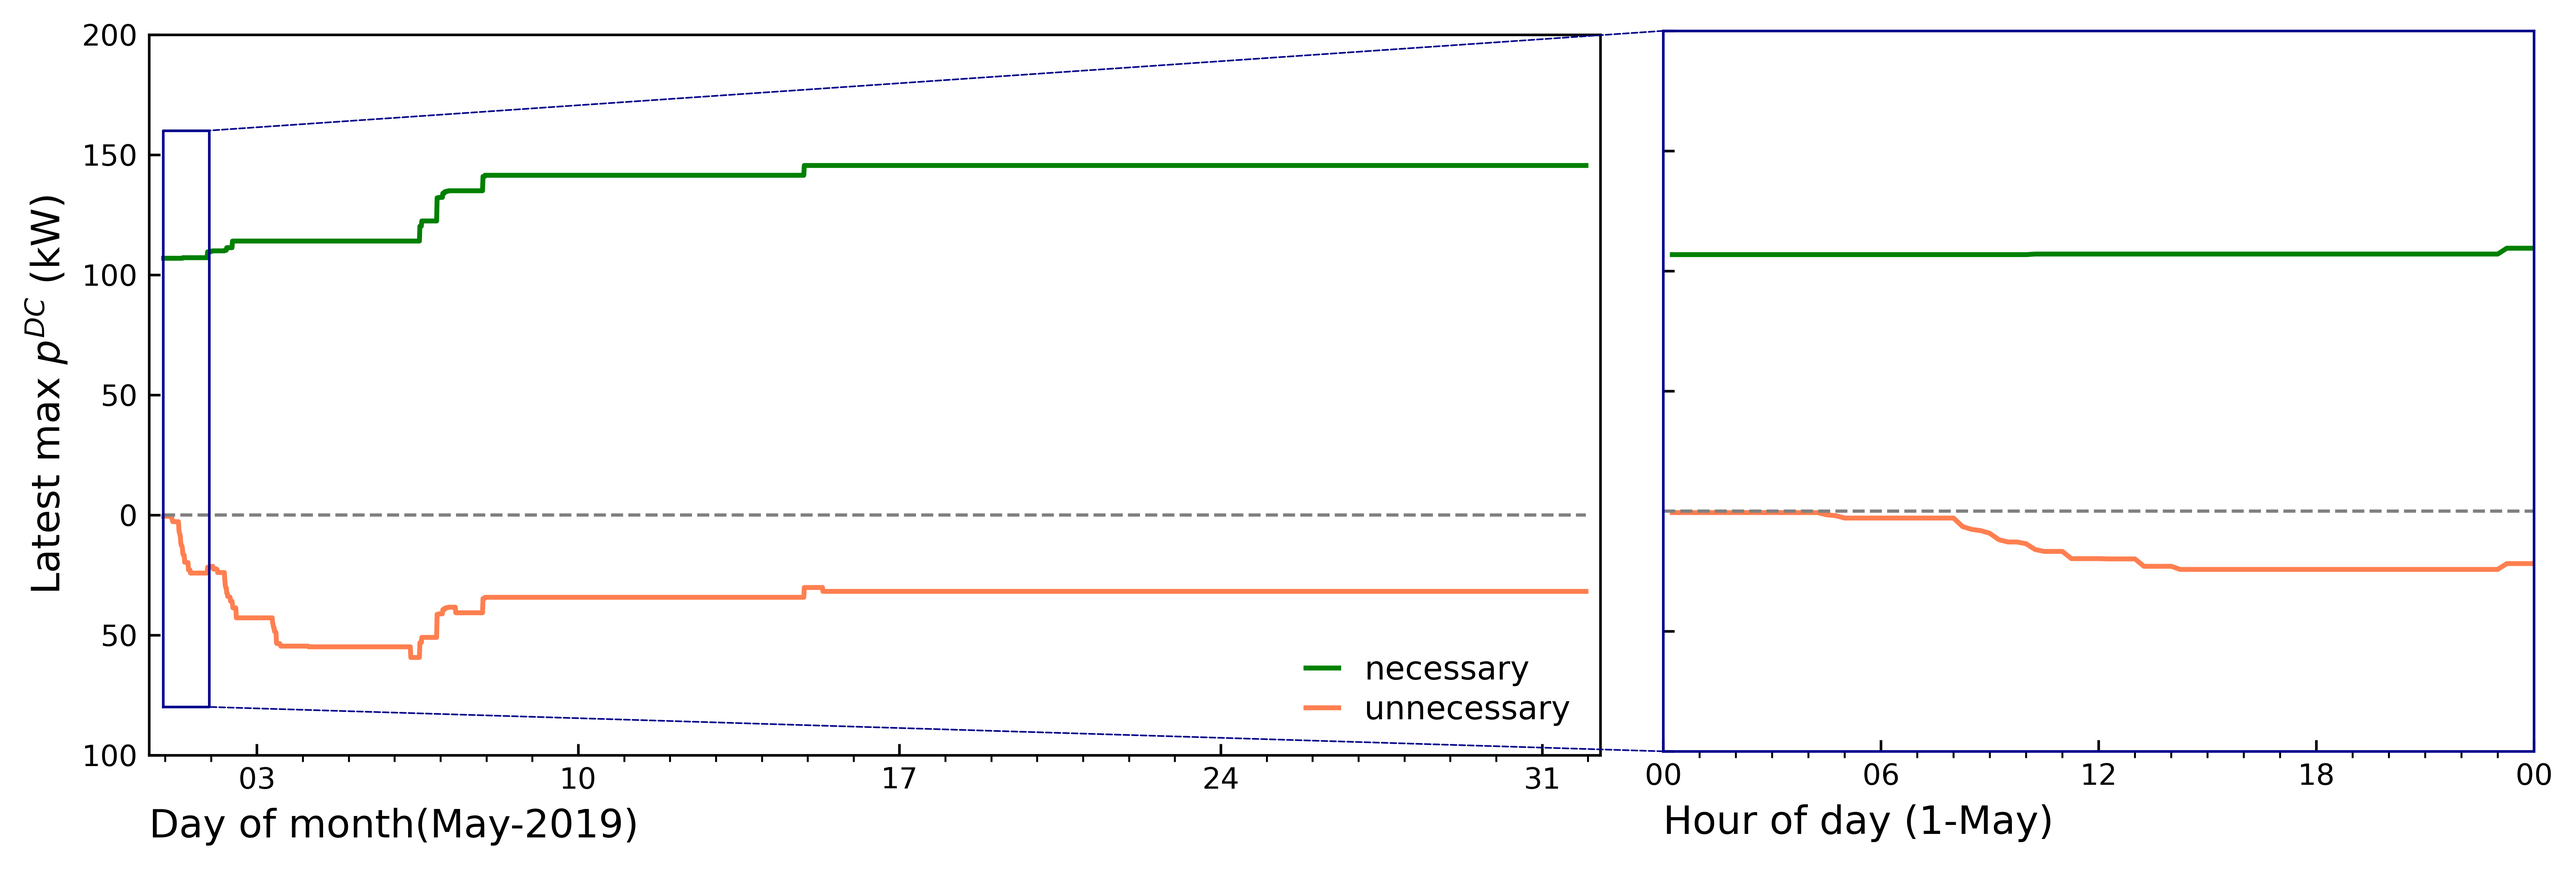
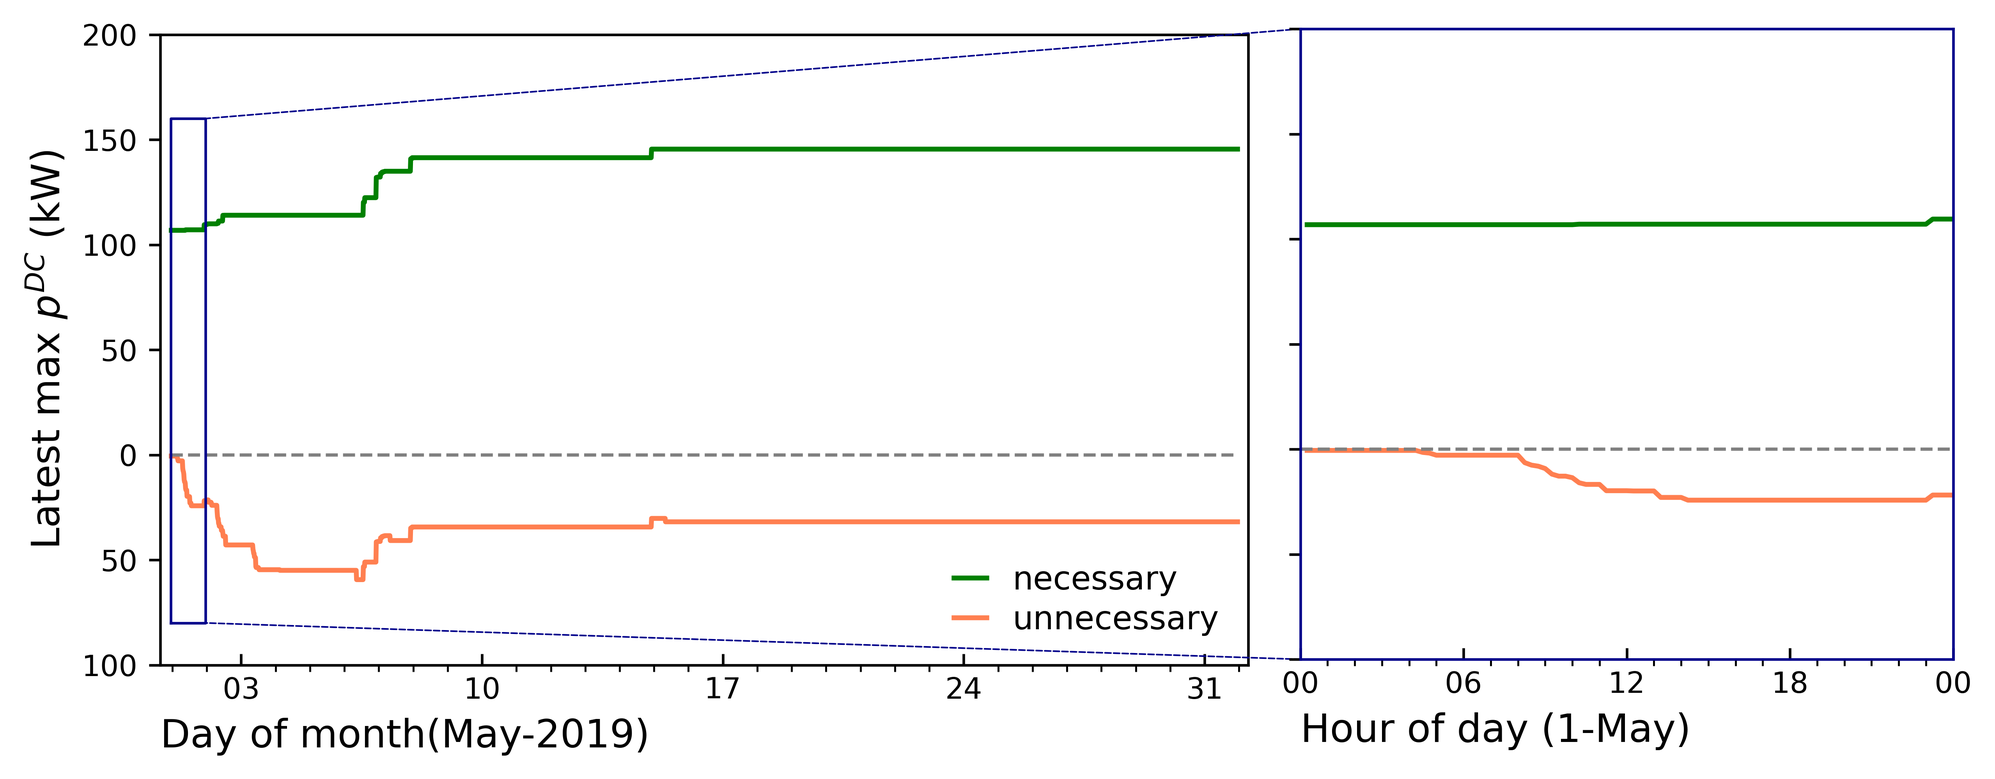
update

Changed region(s): [[0.0, 0.031, 0.9945, 0.962], [0.2486, 0.0931, 0.3729, 0.1241], [0.1554, 0.1862, 0.2176, 0.2793]]

diff --git a/paper_working/plot_helper.py b/paper_working/plot_helper.py
@@ -67,7 +67,7 @@ def get_merged_df(file_folder=None,log_fn=None,id_exe_unne=None, id_sol_nece=Non
     return df_merged
 
 def plot_track_p_max(df_merged,figsize,line_keys=['actual_p_max','necessary','unnecessary'],linewidth=1,
-                     plot_error_bar=False, ylimit_main=[-150,250],ylimit_sub=[-150,250],fontsize=12,
+                     plot_error_bar=False, ylimit_main=[-150,250],ylimit_sub=[-150,250],
                      inside_start_day=5,inside_days=1,legend_loc="lower right",
                      save_fn=None,ax=None,axins=None):
         line_clr_dic={
